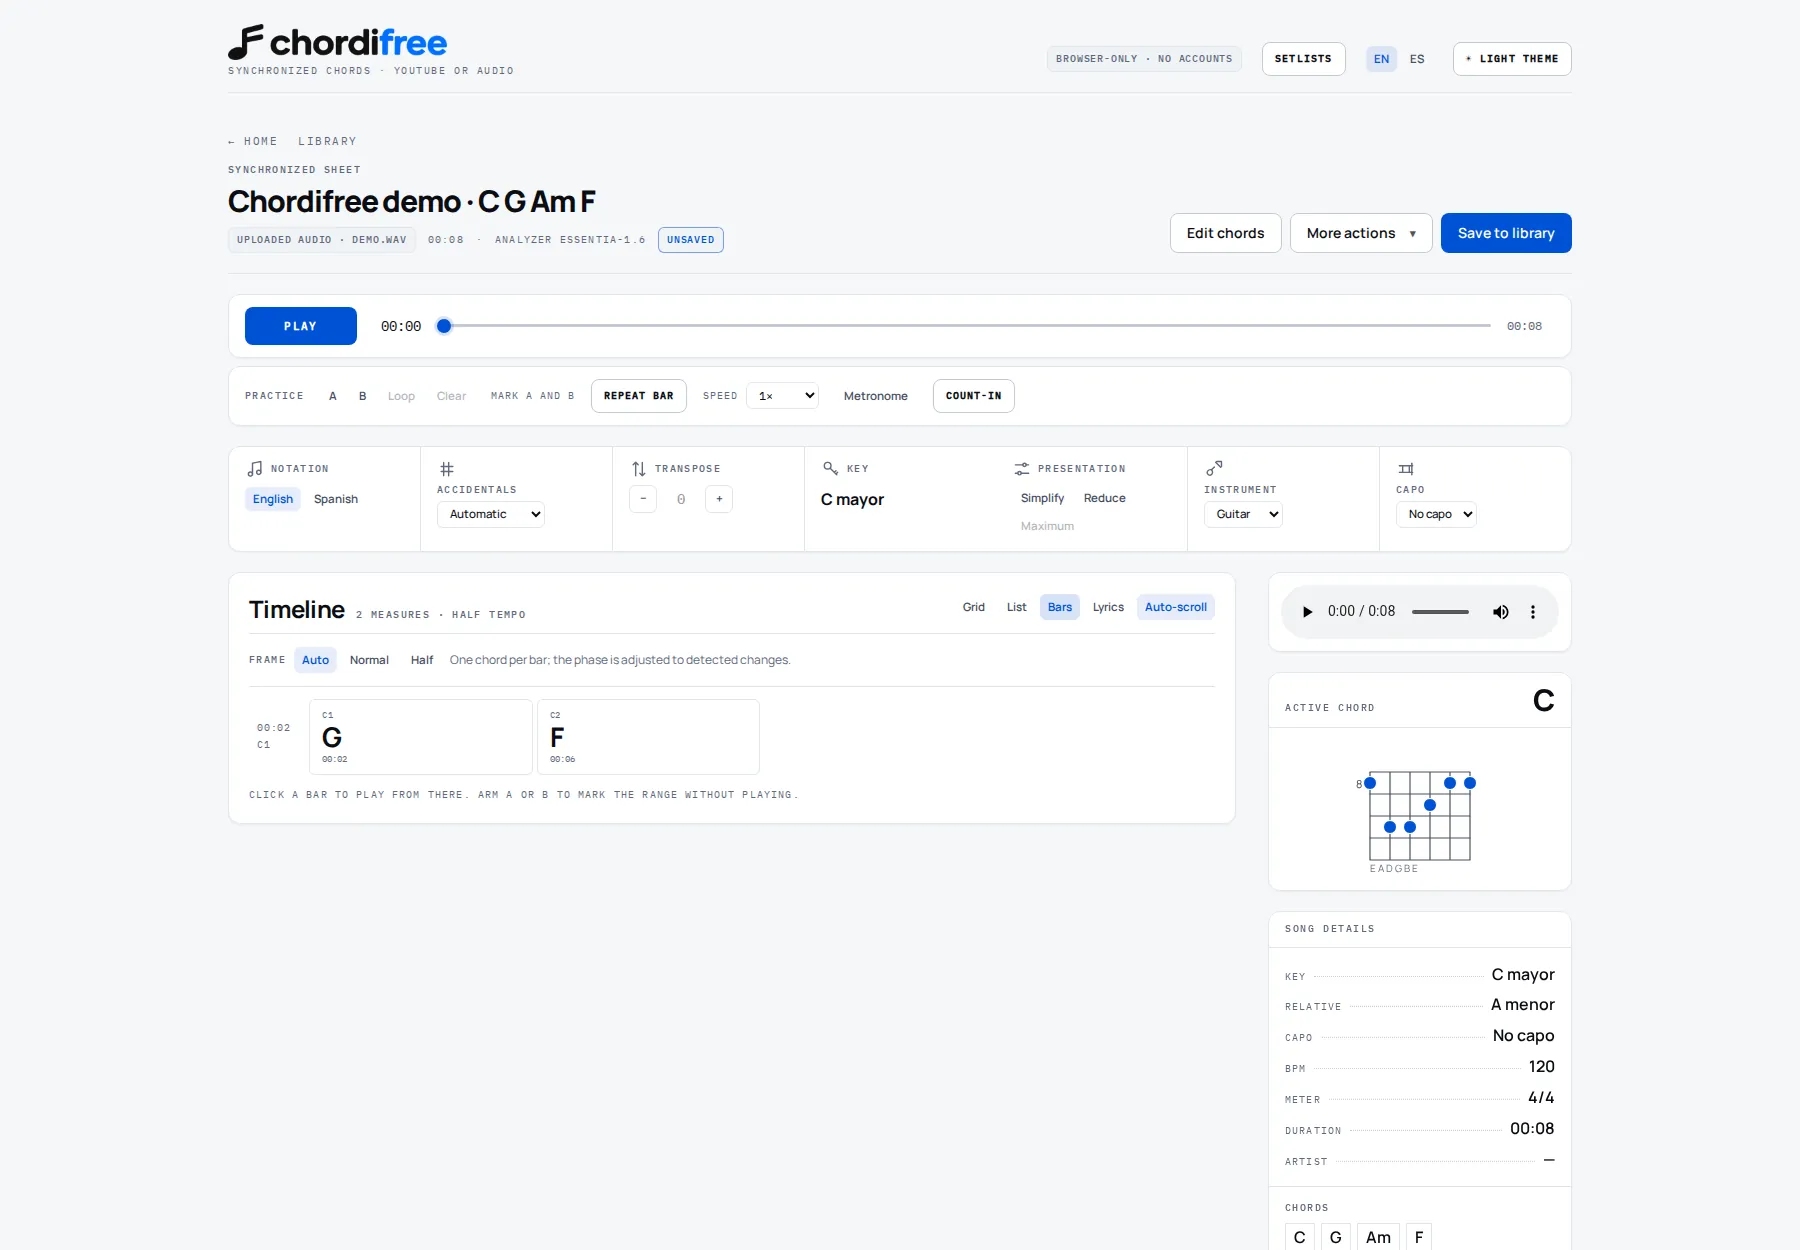
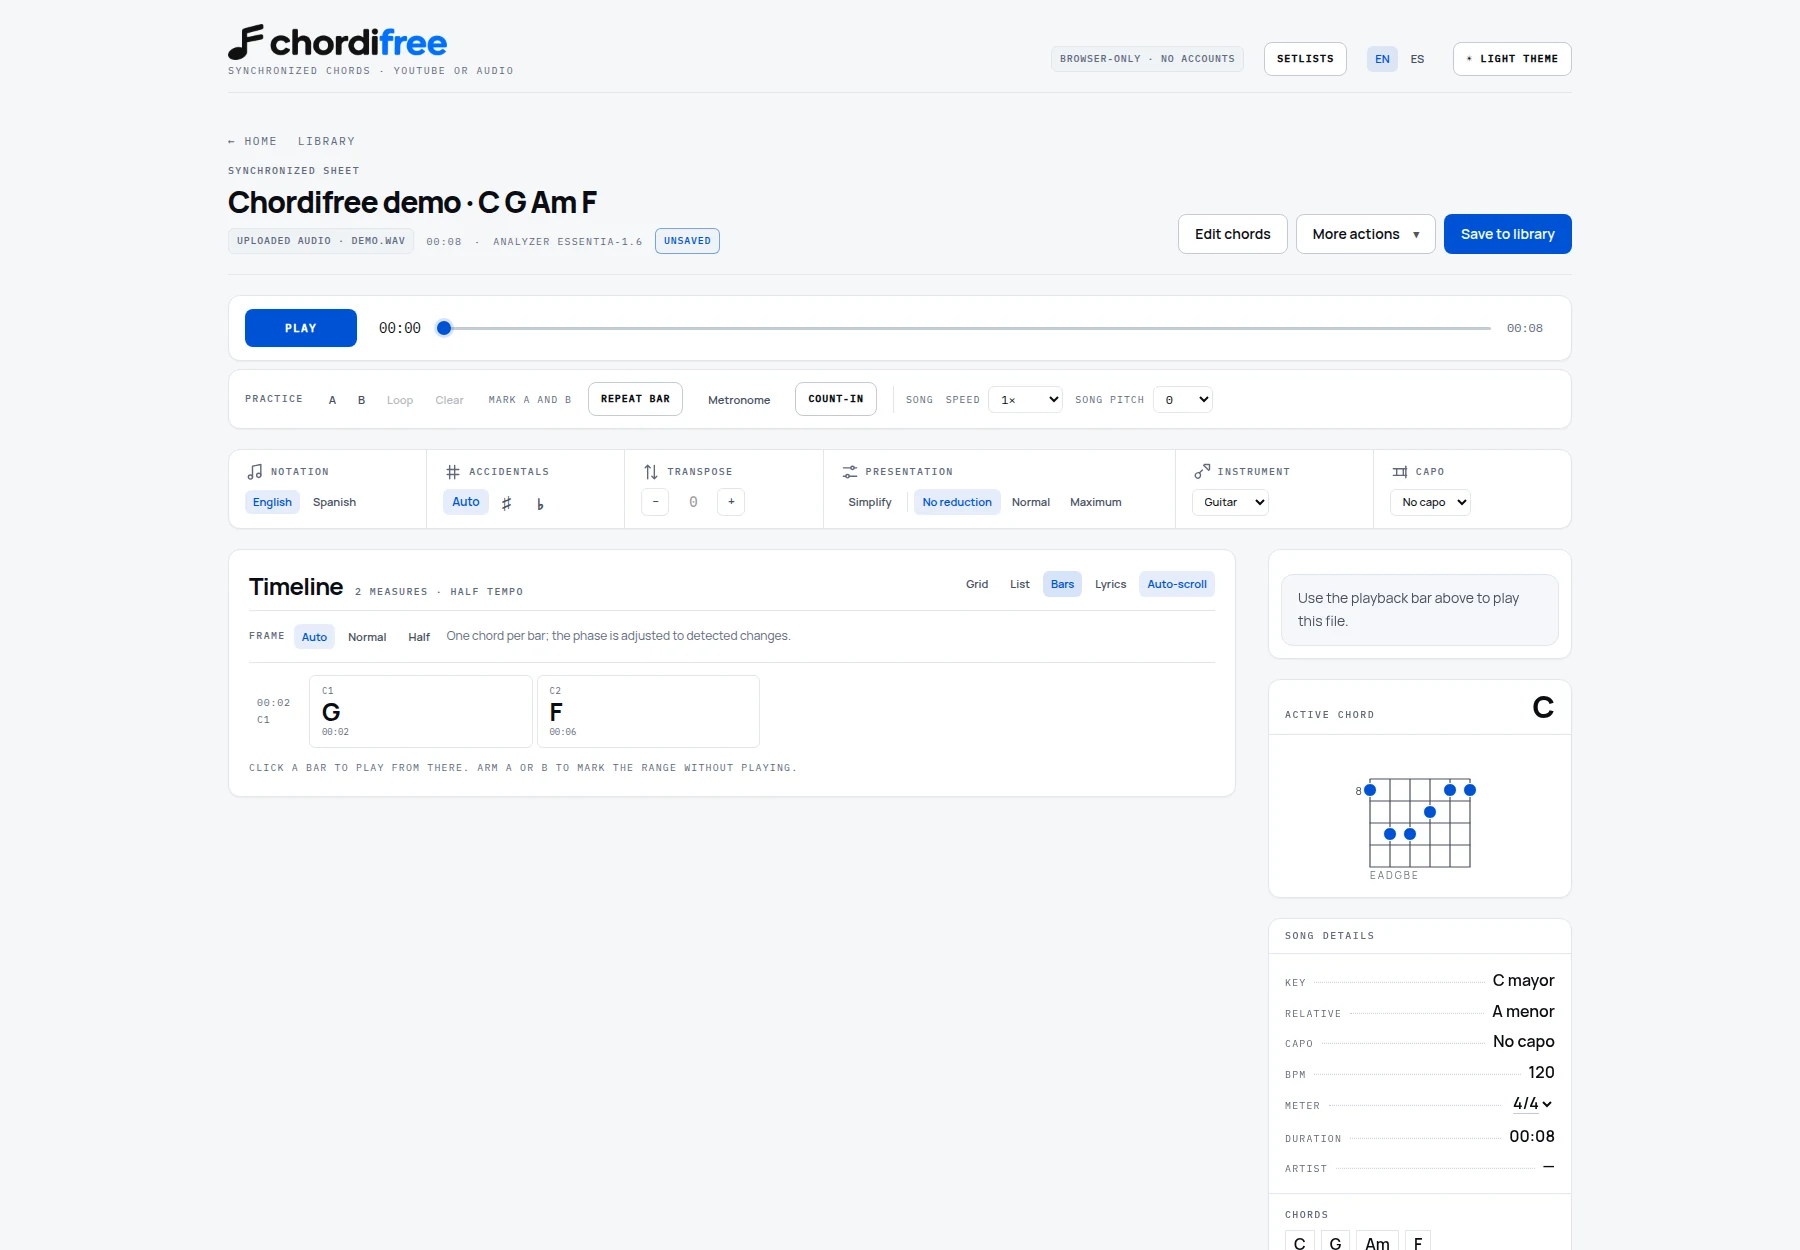
docs: refresh the landing screenshots for the new player and toolbar
Capture the bar view and beat grid with the single playback bar, the new chord toolbar, song audio controls and no key cell. Update the alt text and copy to mention audio transposition and the two-bars-per-row grid.

diff --git a/site/index.html b/site/index.html
@@ -132,7 +132,8 @@
           <h1 data-i18n="hero.title">Chords that follow the song.</h1>
           <p class="lead" data-i18n="hero.lead">
             Search YouTube by name or bring your own audio, and get a synchronized chord sheet
-            with beats, bars, lyrics and A–B practice. The analysis runs on your machine.
+            with beats, bars, lyrics and A–B practice. Slow down or transpose the song without
+            changing the chords. The analysis runs on your machine.
           </p>
           <div class="actions">
             <a class="btn btn-primary" href="#run" data-i18n="hero.primary">Get the app</a>
@@ -158,14 +159,14 @@
             </div>
             <img
               src="assets/app-bars.webp"
-              alt="Chordifree song view with a bar grid for a demo song, showing C, G, Am and F chords, playback controls and a guitar chord diagram."
+              alt="Chordifree song view with a single playback bar, the chord toolbar and the bar grid for the demo song, showing C, G, Am and F chords and a guitar chord diagram."
               width="1800"
               height="1250"
               fetchpriority="high"
             />
           </div>
           <figcaption data-i18n="hero.caption">
-            The demo song, analyzed into bars, chords and a playable timeline.
+            The demo song, with one playback bar, the bar view and the active chord diagram.
           </figcaption>
         </figure>
       </section>
@@ -254,7 +255,7 @@
               <h3 data-i18n="feature.3.title">Practice</h3>
               <p data-i18n="feature.3.body">
                 Arm A and B in the grid, preview a bar on hover, then play the range or loop it.
-                Slow the tempo down and count in before you start.
+                Slow the tempo down, transpose the song, and count in before you start.
               </p>
             </div>
             <span class="track-tag" data-i18n="feature.3.tag">A–B loop</span>
@@ -264,8 +265,8 @@
             <div class="track-copy">
               <h3 data-i18n="feature.4.title">Shape</h3>
               <p data-i18n="feature.4.body">
-                Transpose, add a capo, simplify or reduce chords. Switch between guitar, piano
-                and ukelele diagrams, with sharps, flats or solfège.
+                Transpose the chords, add a capo, simplify or reduce them. Switch between guitar,
+                piano and ukelele diagrams, with sharps, flats or solfège.
               </p>
             </div>
             <span class="track-tag" data-i18n="feature.4.tag">Guitar · piano · uke</span>
@@ -313,7 +314,7 @@
               <h2 data-i18n="product.title">See every bar before you play it.</h2>
             </div>
             <p class="section-lead" data-i18n="product.lead">
-              The grid gives each beat a cell and each bar a row. The active beat follows
+              The grid gives each beat a cell and groups the bars into rows. The active beat follows
               playback, so you always know where you are.
             </p>
           </div>
@@ -327,7 +328,7 @@
               </div>
               <img
                 src="assets/app-beats.webp"
-                alt="Chordifree beat grid for the demo song, with one row per bar, four beat cells per bar and the chords C, G, Am and F."
+                alt="Chordifree beat grid for the demo song, with two bars per row, four beat cells per bar and the chords C, G, Am and F."
                 width="1800"
                 height="1250"
                 loading="lazy"
@@ -336,7 +337,7 @@
           </figure>
 
           <div class="caption-grid" data-reveal>
-            <p><span class="caption-num">01</span><span data-i18n="product.caption1">One row per bar</span></p>
+            <p><span class="caption-num">01</span><span data-i18n="product.caption1">Two bars per row</span></p>
             <p><span class="caption-num">02</span><span data-i18n="product.caption2">Active beat follows playback</span></p>
             <p><span class="caption-num">03</span><span data-i18n="product.caption3">Click a bar to jump or loop</span></p>
             <p><span class="caption-num">04</span><span data-i18n="product.caption4">Chord shape for the current bar</span></p>

diff --git a/site/app.js b/site/app.js
@@ -13,14 +13,14 @@ const spanish = {
 
   'hero.title': 'Acordes que siguen la canción.',
   'hero.lead':
-    'Busca en YouTube por nombre o trae tu propio audio y obtén una hoja de acordes sincronizada con pulsos, compases, letra y práctica A–B. El análisis se ejecuta en tu equipo.',
+    'Busca en YouTube por nombre o trae tu propio audio y obtén una hoja de acordes sincronizada con pulsos, compases, letra y práctica A–B. Baja el tempo o transpón la canción sin cambiar los acordes. El análisis se ejecuta en tu equipo.',
   'hero.primary': 'Consigue la app',
   'hero.secondary': 'Verla en acción',
   'hero.proofOpen': 'Gratis y de código abierto',
   'hero.proofLanguages': 'Inglés y español',
   'hero.windowTag': 'Vista por compases',
   'hero.caption':
-    'La canción de demostración, analizada en compases, acordes y una línea de tiempo reproducible.',
+    'La canción de demostración, con una sola barra de reproducción, la vista de compases y el diagrama del acorde activo.',
 
   'sheet.one': 'Toma el',
   'sheet.two': 'siguiente compás,',
@@ -47,11 +47,11 @@ const spanish = {
   'feature.2.tag': 'Regiones vocales',
   'feature.3.title': 'Practica',
   'feature.3.body':
-    'Marca A y B en la rejilla, previsualiza un compás al pasar el ratón y reproduce el rango o ponlo en bucle. Baja el tempo y cuenta antes de empezar.',
+    'Marca A y B en la rejilla, previsualiza un compás al pasar el ratón y reproduce el rango o ponlo en bucle. Baja el tempo, transpón la canción y cuenta antes de empezar.',
   'feature.3.tag': 'Bucle A–B',
   'feature.4.title': 'Ajusta',
   'feature.4.body':
-    'Transpone, añade cejilla, simplifica o reduce acordes. Cambia entre diagramas de guitarra, piano y ukelele, con sostenidos, bemoles o solfeo.',
+    'Transpone los acordes, añade cejilla, simplifica o redúcelos. Cambia entre diagramas de guitarra, piano y ukelele, con sostenidos, bemoles o solfeo.',
   'feature.4.tag': 'Guitarra · piano · uke',
   'feature.5.title': 'Guarda',
   'feature.5.body':
@@ -65,9 +65,9 @@ const spanish = {
   'product.eyebrow': 'La línea de tiempo',
   'product.title': 'Mira cada compás antes de tocarlo.',
   'product.lead':
-    'La rejilla da una celda a cada pulso y una fila a cada compás. El pulso activo sigue la reproducción para que siempre sepas dónde estás.',
+    'La rejilla da una celda a cada pulso y agrupa los compases en filas. El pulso activo sigue la reproducción para que siempre sepas dónde estás.',
   'product.windowTag': 'Rejilla de pulsos',
-  'product.caption1': 'Una fila por compás',
+  'product.caption1': 'Dos compases por fila',
   'product.caption2': 'El pulso activo sigue la reproducción',
   'product.caption3': 'Haz clic en un compás para saltar o repetir',
   'product.caption4': 'Diagrama del acorde actual',
